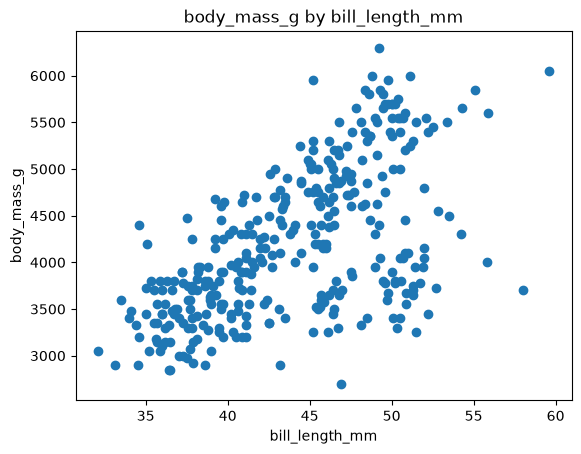
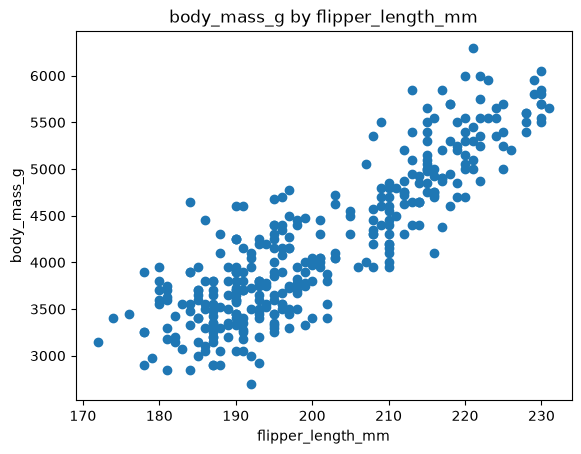
complete project modification

diff --git a/src/datafun/app.py b/src/datafun/app.py
@@ -102,8 +102,8 @@ A_TARGET_WE_COULD_PREDICT: Final[str] = "body_mass_g"
 # CUSTOM: Choose one other NUMERIC column
 # as a FEATURE that might help predict the target.
 # This must match a numeric column name EXACTLY as it appears in the CSV file.
-# I picked "bill_length_mm" as the feature column.
-A_FEATURE_THAT_MIGHT_HELP: Final[str] = "bill_length_mm"
+# I picked "flipper_length_mm" as the feature column.
+A_FEATURE_THAT_MIGHT_HELP: Final[str] = "flipper_length_mm"
 
 # CUSTOM: Document your thinking.
 # Why do you think that feature could help predict the target?
@@ -113,9 +113,9 @@ A_FEATURE_THAT_MIGHT_HELP: Final[str] = "bill_length_mm"
 # like I typed it.
 # Open and close with three double quotes to get a multi-line string.
 WHY_THE_FEATURE_MIGHT_HELP: Final[str] = r"""
-A bigger penguin probably has both a longer bill and more mass,
-so bill length might help predict body mass.
-That is, a longer bill may indicate a larger body mass.
+A bigger penguin probably has both a longer flippers and more body mass.
+Flipper length might help predict body mass.
+That is, longer flippers may indicate a larger body mass.
 """
 
 

diff --git a/README.md b/README.md
@@ -270,3 +270,7 @@ Press `Ctrl c` (both keys together) or `Ctrl+Z` then `Enter` on Windows.
 ## License
 
 This project is licensed under the [MIT License](./LICENSE).
+
+## My Technical Modification
+I change the feature used to help predict penguin body mass from 'bill_length_mm' to 'flipper_length_mm'. I chose flipper length because I thought larger penguins would likely have longer flippers and greater body mass.
+After making the change, I ran the project successfully. The scatterplot showed a positive relationship between flipper length and body mass, with penguins with longer flippers generally having greater body mass.
